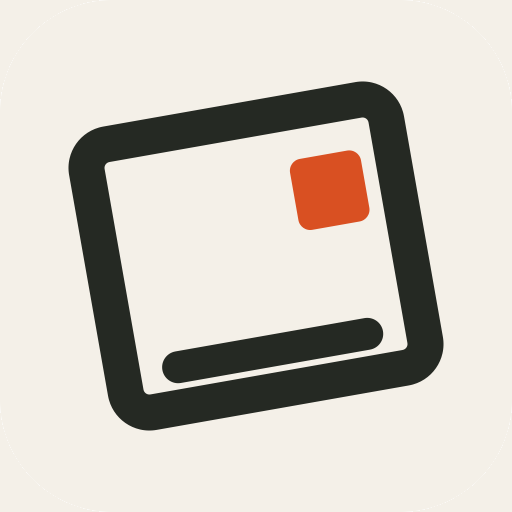
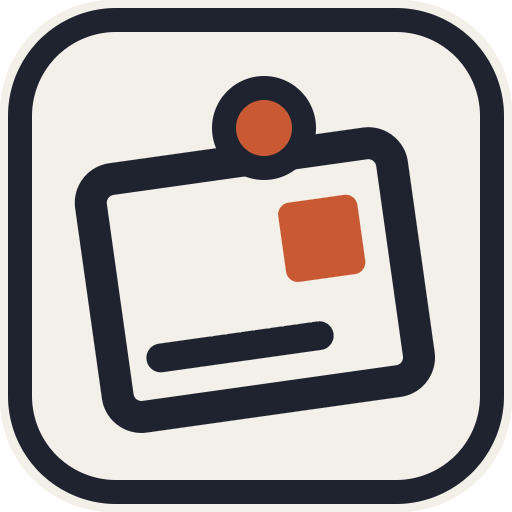
Replace the rejected cut-paper artwork with the drawn family
Original ink-line cel animation cover, share card, switcher crop and mark, with
the app's own 512px install icon. The v3 files and their provenance are removed.
A missing, private or revoked postcard now renders the app's own HTML 404 page
instead of a JSON body, and the footer names App Composer rather than a personal
workspace.

diff --git a/src/common.ts b/src/common.ts
@@ -170,6 +170,7 @@ export function html(
   pagePath = "/",
   mediaOrigin = publicOrigin,
   brandTitle = title,
+  status = 200,
 ) {
   const origin = new URL(publicOrigin).origin;
   const canonical = origin + base + (pagePath === "/" ? "/" : pagePath);
@@ -178,8 +179,9 @@ export function html(
     String.fromCharCode(...crypto.getRandomValues(new Uint8Array(16))),
   );
   return new Response(
-    `<!doctype html><html lang="en" data-app="${kind}" data-theme-key="${themeKey}" data-theme="${theme === "midnight" ? "dark" : "light"}"><head><meta charset="utf-8"><meta name="viewport" content="width=device-width,initial-scale=1"><title>${escape(title)}</title><meta name="description" content="${escape(description)}"><link rel="canonical" href="${escape(canonical)}">${pagePath === "/owner" ? '<meta name="robots" content="noindex,nofollow">' : ""}<meta name="theme-color" content="#17181b"><script nonce="${nonce}">try{const saved=localStorage.getItem(${JSON.stringify(themeKey)});if(saved==="light"||saved==="dark")document.documentElement.dataset.theme=saved;}catch{}</script><link rel="preload" href="${base}/brand/space.woff2" as="font" type="font/woff2" crossorigin><link rel="icon" href="${base}/brand/mark.svg"><link rel="apple-touch-icon" href="${base}/brand/icon.png"><meta property="og:type" content="website"><meta property="og:url" content="${escape(canonical)}"><meta name="twitter:card" content="summary_large_image"><meta name="twitter:title" content="${escape(title)}"><meta name="twitter:description" content="${escape(description)}"><meta name="twitter:image" content="${origin}${base}/brand/herethere-share-v3.jpg"><meta name="twitter:image:alt" content="A burnt-orange cut-paper postbox with one ivory postcard slipping into its slot, stamped with a permission-green square."><meta property="og:title" content="${escape(title)}"><meta property="og:description" content="${escape(description)}"><meta property="og:image" content="${origin}${base}/brand/herethere-share-v3.jpg"><meta property="og:image:alt" content="A burnt-orange cut-paper postbox with one ivory postcard slipping into its slot, stamped with a permission-green square."><meta property="og:image:width" content="1200"><meta property="og:image:height" content="630"><meta property="og:image:type" content="image/jpeg"><link rel="stylesheet" href="${base}/brand/navigation.css"><style>${style.replaceAll("url('/brand/", `url('${base}/brand/`)}</style><link rel="stylesheet" href="${base}/brand/page-share.css"><link rel="stylesheet" href="${base}/brand/theme-control.css"></head><body class="${escape(theme)}"><a class="skip" href="#main">Skip to content</a><header${pagePath === "/owner" ? "" : ' class="app-header"'}>${base ? `<a class="composer-return composition-home" href="/"><img src="${base}/brand/mark.svg" width="28" height="28" alt=""><span><span class="composer-name">App Composer</span><span class="composer-context">Here / there</span></span></a>` : `<a href="/"><strong>${escape(brandTitle)}</strong></a>`}${base || pagePath !== "/owner" ? "" : `<a class="composer-return composer-return--secondary" href="https://composer.loftwah.com/"><img src="${base}/brand/mark.svg" width="28" height="28" alt=""><span>App Composer</span></a>`}${base || pagePath === "/owner" ? `<nav aria-label="${base ? "Collection navigation" : "App navigation"}">${base ? `<a href="/guestbook/" ${kind === "guestbook" ? 'aria-current="page"' : ""}>Here / there</a><a href="/showcase/" ${kind === "showcase" ? 'aria-current="page"' : ""}>Linkarooie</a>` : '<a href="https://composer.loftwah.com/demo">Try the composition</a>'}${pagePath === "/owner" ? `<a href="${base}/owner" aria-current="page">Owner studio</a>` : ""}</nav>` : ""}<div class="app-tools"><button type="button" class="secondary" data-open-apps aria-haspopup="dialog" title="Apps and shortcuts (Ctrl/Cmd+K)"><svg xmlns="http://www.w3.org/2000/svg" width="18" height="18" viewBox="0 0 24 24" fill="none" stroke="currentColor" stroke-width="2" stroke-linecap="round" stroke-linejoin="round" aria-hidden="true"><rect width="18" height="18" x="3" y="3" rx="2"/><path d="M3 9h18M3 15h18M9 3v18M15 3v18"/></svg>Apps <kbd>⌘K / Ctrl K</kbd></button><button type="button" class="theme-control secondary" id="reader-theme" aria-label="Dark theme" aria-pressed="true" title="Switch to light theme"><svg data-theme-glyph="dark" width="20" height="20" viewBox="0 0 24 24" fill="none" stroke="currentColor" stroke-width="1.75" stroke-linecap="round" stroke-linejoin="round" aria-hidden="true"><path d="M21 12.79A9 9 0 1 1 11.21 3 7 7 0 0 0 21 12.79Z"/></svg><svg data-theme-glyph="light" width="20" height="20" viewBox="0 0 24 24" fill="none" stroke="currentColor" stroke-width="1.75" stroke-linecap="round" stroke-linejoin="round" aria-hidden="true"><circle cx="12" cy="12" r="4"/><path d="M12 2v2m0 16v2M2 12h2m16 0h2M4.93 4.93l1.42 1.42m11.3 11.3 1.42 1.42M4.93 19.07l1.42-1.42m11.3-11.3 1.42-1.42"/></svg></button></div></header><dialog id="app-navigation" aria-labelledby="app-navigation-title"><div class="dialog-heading"><h2 id="app-navigation-title">Apps and shortcuts</h2><button type="button" data-close-apps>Close</button></div><label>Find an app or task<input type="search" placeholder="App name, Get Ready, Init…" autocomplete="off"></label><p role="status" aria-live="polite"></p><ul><li data-destination><a href="${base ? "/guestbook/" : "https://guestbook.loftwah.com"}"><img src="${base}/brand/apps/herethere-small-v3.webp" width="40" height="40" alt=""><span>Here / there<small>Photo guestbook</small></span></a></li><li data-destination><a href="${base ? "/showcase/" : "https://showcase.loftwah.com"}"><img src="${base}/brand/apps/linkarooie-small-v3.webp" width="40" height="40" alt=""><span>Linkarooie<small>Curated collection</small></span></a></li><li data-destination><a href="https://share.loftwah.com"><img src="${base}/brand/apps/linkcheck-small-v3.webp" width="40" height="40" alt=""><span>Link Check<small>SEO and sharing</small></span></a></li><li data-destination><a href="https://ready.loftwah.com"><img src="${base}/brand/apps/hello-small-v3.webp" width="40" height="40" alt=""><span>Hello World<small>Deployment reference</small></span></a></li><li data-destination><a href="https://ai.loftwah.com"><img src="${base}/brand/apps/carryforward-small-v3.webp" width="40" height="40" alt=""><span>Carry / forward<small>Portable assistant memory</small></span></a></li><li data-destination><a href="https://composer.loftwah.com/ready">Get Ready<small>Composer task</small></a></li><li data-destination><a href="https://composer.loftwah.com/init">Init<small>Composer task</small></a></li></ul></dialog><main id="main">${body.replaceAll("<script>", '<script nonce="' + nonce + '">')}${pagePath === "/" ? '<details class="about-app"><summary>About Here / there</summary><p>A photo guestbook for a community, event or personal collection. Browse approved moments, search captions and open an original contribution.</p><p>An invited owner uses the studio to upload, review, publish or hide photos and change the title, introduction, theme and layout. Photos stay private until approved. Linkarooie can feature approved contributions; hiding the source revokes both public views on the next request.</p><a href="https://composer.loftwah.com/init">Prepare your own configuration in Init</a></details>' : ""}</main><footer><a href="https://composer.loftwah.com/">Loftwah’s workspace</a> · <a href="${base}/owner">Manage this guestbook</a> · ${pagePath === "/owner" ? "" : "<div class=\"public-page-share\" data-page-share hidden><button type=\"button\" class=\"secondary\" data-page-native hidden>Share page</button><button type=\"button\" class=\"secondary\" data-page-copy hidden>Copy page link</button><p role=\"status\" aria-live=\"polite\" data-share-status></p><label data-share-fallback hidden>Published page URL<input readonly aria-label=\"Published page URL\"></label></div>"}Here / there by Loftwah · <a href="https://github.com/loftwah/app-composer-${kind}">Own the source</a></footer><script nonce="${nonce}" src="${base}/brand/navigation.js"></script><script type="module" src="${base}/brand/page-performance.mjs"></script><script type="module" src="${base}/brand/page-share.mjs"></script></body></html>`,
+    `<!doctype html><html lang="en" data-app="${kind}" data-theme-key="${themeKey}" data-theme="${theme === "midnight" ? "dark" : "light"}"><head><meta charset="utf-8"><meta name="viewport" content="width=device-width,initial-scale=1"><title>${escape(title)}</title><meta name="description" content="${escape(description)}"><link rel="canonical" href="${escape(canonical)}">${pagePath === "/owner" ? '<meta name="robots" content="noindex,nofollow">' : ""}<meta name="theme-color" content="#17181b"><script nonce="${nonce}">try{const saved=localStorage.getItem(${JSON.stringify(themeKey)});if(saved==="light"||saved==="dark")document.documentElement.dataset.theme=saved;}catch{}</script><link rel="preload" href="${base}/brand/space.woff2" as="font" type="font/woff2" crossorigin><link rel="icon" href="${base}/brand/mark.svg"><link rel="apple-touch-icon" href="${base}/brand/icon.png"><meta property="og:type" content="website"><meta property="og:url" content="${escape(canonical)}"><meta name="twitter:card" content="summary_large_image"><meta name="twitter:title" content="${escape(title)}"><meta name="twitter:description" content="${escape(description)}"><meta name="twitter:image" content="${origin}${base}/brand/herethere-share-v4.jpg"><meta name="twitter:image:alt" content="Here / there: an alien visitor pins a postcard onto a station wall of contributions, on the App Composer share card."><meta property="og:title" content="${escape(title)}"><meta property="og:description" content="${escape(description)}"><meta property="og:image" content="${origin}${base}/brand/herethere-share-v4.jpg"><meta property="og:image:alt" content="Here / there: an alien visitor pins a postcard onto a station wall of contributions, on the App Composer share card."><meta property="og:image:width" content="1200"><meta property="og:image:height" content="630"><meta property="og:image:type" content="image/jpeg"><link rel="stylesheet" href="${base}/brand/navigation.css"><style>${style.replaceAll("url('/brand/", `url('${base}/brand/`)}</style><link rel="stylesheet" href="${base}/brand/page-share.css"><link rel="stylesheet" href="${base}/brand/theme-control.css"></head><body class="${escape(theme)}"><a class="skip" href="#main">Skip to content</a><header${pagePath === "/owner" ? "" : ' class="app-header"'}>${base ? `<a class="composer-return composition-home" href="/"><img src="${base}/brand/mark.svg" width="28" height="28" alt=""><span><span class="composer-name">App Composer</span><span class="composer-context">Here / there</span></span></a>` : `<a href="/"><strong>${escape(brandTitle)}</strong></a>`}${base || pagePath !== "/owner" ? "" : `<a class="composer-return composer-return--secondary" href="https://composer.loftwah.com/"><img src="${base}/brand/mark.svg" width="28" height="28" alt=""><span>App Composer</span></a>`}${base || pagePath === "/owner" ? `<nav aria-label="${base ? "Collection navigation" : "App navigation"}">${base ? `<a href="/guestbook/" ${kind === "guestbook" ? 'aria-current="page"' : ""}>Here / there</a><a href="/showcase/" ${kind === "showcase" ? 'aria-current="page"' : ""}>Linkarooie</a>` : '<a href="https://composer.loftwah.com/demo">Try the composition</a>'}${pagePath === "/owner" ? `<a href="${base}/owner" aria-current="page">Owner studio</a>` : ""}</nav>` : ""}<div class="app-tools"><button type="button" class="secondary" data-open-apps aria-haspopup="dialog" title="Apps and shortcuts (Ctrl/Cmd+K)"><svg xmlns="http://www.w3.org/2000/svg" width="18" height="18" viewBox="0 0 24 24" fill="none" stroke="currentColor" stroke-width="2" stroke-linecap="round" stroke-linejoin="round" aria-hidden="true"><rect width="18" height="18" x="3" y="3" rx="2"/><path d="M3 9h18M3 15h18M9 3v18M15 3v18"/></svg>Apps <kbd>⌘K / Ctrl K</kbd></button><button type="button" class="theme-control secondary" id="reader-theme" aria-label="Dark theme" aria-pressed="true" title="Switch to light theme"><svg data-theme-glyph="dark" width="20" height="20" viewBox="0 0 24 24" fill="none" stroke="currentColor" stroke-width="1.75" stroke-linecap="round" stroke-linejoin="round" aria-hidden="true"><path d="M21 12.79A9 9 0 1 1 11.21 3 7 7 0 0 0 21 12.79Z"/></svg><svg data-theme-glyph="light" width="20" height="20" viewBox="0 0 24 24" fill="none" stroke="currentColor" stroke-width="1.75" stroke-linecap="round" stroke-linejoin="round" aria-hidden="true"><circle cx="12" cy="12" r="4"/><path d="M12 2v2m0 16v2M2 12h2m16 0h2M4.93 4.93l1.42 1.42m11.3 11.3 1.42 1.42M4.93 19.07l1.42-1.42m11.3-11.3 1.42-1.42"/></svg></button></div></header><dialog id="app-navigation" aria-labelledby="app-navigation-title"><div class="dialog-heading"><h2 id="app-navigation-title">Apps and shortcuts</h2><button type="button" data-close-apps>Close</button></div><label>Find an app or task<input type="search" placeholder="App name, Get Ready, Init…" autocomplete="off"></label><p role="status" aria-live="polite"></p><ul><li data-destination><a href="${base ? "/guestbook/" : "https://guestbook.loftwah.com"}"><img src="${base}/brand/apps/herethere-small-v4.webp" width="40" height="40" alt=""><span>Here / there<small>Photo guestbook</small></span></a></li><li data-destination><a href="${base ? "/showcase/" : "https://showcase.loftwah.com"}"><img src="${base}/brand/apps/linkarooie-small-v4.webp" width="40" height="40" alt=""><span>Linkarooie<small>Curated collection</small></span></a></li><li data-destination><a href="https://share.loftwah.com"><img src="${base}/brand/apps/linkcheck-small-v4.webp" width="40" height="40" alt=""><span>Link Check<small>SEO and sharing</small></span></a></li><li data-destination><a href="https://ready.loftwah.com"><img src="${base}/brand/apps/hello-small-v4.webp" width="40" height="40" alt=""><span>Hello World<small>Deployment reference</small></span></a></li><li data-destination><a href="https://ai.loftwah.com"><img src="${base}/brand/apps/carryforward-small-v4.webp" width="40" height="40" alt=""><span>Carry / forward<small>Portable assistant memory</small></span></a></li><li data-destination><a href="https://composer.loftwah.com/ready">Get Ready<small>Composer task</small></a></li><li data-destination><a href="https://composer.loftwah.com/init">Init<small>Composer task</small></a></li></ul></dialog><main id="main">${body.replaceAll("<script>", '<script nonce="' + nonce + '">')}${pagePath === "/" ? '<details class="about-app"><summary>About Here / there</summary><p>A photo guestbook for a community, event or personal collection. Browse approved moments, search captions and open an original contribution.</p><p>An invited owner uses the studio to upload, review, publish or hide photos and change the title, introduction, theme and layout. Photos stay private until approved. Linkarooie can feature approved contributions; hiding the source revokes both public views on the next request.</p><a href="https://composer.loftwah.com/init">Prepare your own configuration in Init</a></details>' : ""}</main><footer><a href="https://composer.loftwah.com/">App Composer</a> · <a href="${base}/owner">Manage this guestbook</a> · ${pagePath === "/owner" ? "" : "<div class=\"public-page-share\" data-page-share hidden><button type=\"button\" class=\"secondary\" data-page-native hidden>Share page</button><button type=\"button\" class=\"secondary\" data-page-copy hidden>Copy page link</button><p role=\"status\" aria-live=\"polite\" data-share-status></p><label data-share-fallback hidden>Published page URL<input readonly aria-label=\"Published page URL\"></label></div>"}Here / there by Loftwah · <a href="https://github.com/loftwah/app-composer-${kind}">Own the source</a></footer><script nonce="${nonce}" src="${base}/brand/navigation.js"></script><script type="module" src="${base}/brand/page-performance.mjs"></script><script type="module" src="${base}/brand/page-share.mjs"></script></body></html>`,
     {
+      status,
       headers: {
         "Content-Type": "text/html; charset=utf-8",
         "Cache-Control": "no-store",

diff --git a/src/worker.ts b/src/worker.ts
@@ -256,7 +256,20 @@ const app = {
         )
           .bind(detail[1])
           .first<any>();
-        if (!p) return error("This contribution is not public", 404);
+        if (!p)
+          return html(
+            "This postcard is not available",
+            `<h1>This postcard is not available</h1><p>It is unpublished, private or has been removed.</p><p><a href="${base || "/"}">Back to the collection</a></p>`,
+            base,
+            "guestbook",
+            String(config.theme),
+            "This contribution is unpublished, private or has been removed.",
+            env.PUBLIC_ORIGIN,
+            path,
+            env.PUBLIC_ORIGIN,
+            String(config.title),
+            404,
+          );
         return html(
           p.caption,
           `<a href="${base || "/"}">Back to the guestbook</a><h1>${escape(p.caption)}</h1><img class="detail-media" src="${base}/media/${escape(p.id)}" alt="${escape(p.caption)}" width="1200" height="900"><p>${escape(p.author)}${p.synthetic ? " · Original illustrative demo artwork" : ""}</p>`,
@@ -286,7 +299,7 @@ const app = {
             : "Nothing is published yet. Postcards are closed, so no new contributions can be sent for now.";
         return html(
           String(config.title),
-          `<section class="collection-hero" aria-labelledby="collection-title"><div class="collection-copy"><p class="collection-kicker">Here / there · Photo guestbook</p><h1 id="collection-title">${escape(config.title)}</h1><p class="lede">${escape(config.intro)}</p><div class="collection-actions">${heroActions}</div><p class="collection-note">${collectionNote}</p></div><figure><img class="collection-art" src="${base}/brand/herethere-art-v3-960.webp" srcset="${base}/brand/herethere-art-v3-480.webp 480w, ${base}/brand/herethere-art-v3-960.webp 960w" sizes="(max-width: 820px) calc(100vw - 40px), (max-width: 1248px) 50vw, 584px" width="960" height="960" fetchpriority="high" alt="A burnt-orange cut-paper postbox with one ivory postcard slipping into its slot, carrying a permission-green stamp."><figcaption>Original cut-paper artwork for Here / there. The collection below holds the published items.</figcaption></figure></section><section class="collection-section" id="collection" aria-labelledby="moments-title"><div class="collection-heading"><h2 id="moments-title">From the guestbook</h2>${published ? "<p>A place, a face, a little piece of the day.</p>" : ""}</div>${results.length > 1 ? `<div class="gallery-controls"><label>Find in this collection<input id="gallery-search" type="search" placeholder="Caption, title or alias" autocomplete="off"></label></div><p id="gallery-count" class="small" role="status" aria-live="polite"></p><p id="gallery-empty" class="gallery-empty" hidden>No items match. Try another search.</p>` : ""}<div class="gallery ${escape(config.layout)}">${results.map((p: any) => `<article data-gallery-item><a href="${base}/item/${escape(p.id)}"><img src="${base}/media/${escape(p.id)}" alt="${escape(p.caption)}" width="1200" height="900" loading="lazy"><h3>${escape(p.caption)}</h3></a><p>${escape(p.author)} ${p.synthetic ? '<span class="badge">Demo artwork</span>' : ""}</p></article>`).join("") || `<div class="collection-empty"><h3>No published moments yet</h3><p>The owner reviews each contribution before it appears here.${postcardsOpen ? " Anyone with the guest code can send a postcard now." : " Postcards are closed for now."}</p>${postcardsOpen ? `<p><a class="button" href="${base}/contribute">Leave a postcard</a></p>` : ""}</div>`}</div></section><aside class="collection-context"><p>For a birthday, a neighbourhood or the places you want to remember. The owner chooses what is shared. An approved moment can also appear in <a href="${base ? "/showcase/" : "https://showcase.loftwah.com/"}">Linkarooie</a>; hiding it here removes it from both public views.</p></aside>${config.guestAccess === 'postcards' && !config.submissionsPaused ? `<script>console.info('  [ postcard ]\\nGuestbook discovery: hunter2 → ${base}/contribute\\nA guest code sends a pending postcard. Your owner credential stays private.');</script>` : ''}`,
+          `<section class="collection-hero" aria-labelledby="collection-title"><div class="collection-copy"><p class="collection-kicker">Here / there · Photo guestbook</p><h1 id="collection-title">${escape(config.title)}</h1><p class="lede">${escape(config.intro)}</p><div class="collection-actions">${heroActions}</div><p class="collection-note">${collectionNote}</p></div><figure><img class="collection-art" src="${base}/brand/herethere-art-v4-960.webp" srcset="${base}/brand/herethere-art-v4-480.webp 480w, ${base}/brand/herethere-art-v4-960.webp 960w" sizes="(max-width: 820px) calc(100vw - 40px), (max-width: 1248px) 50vw, 584px" width="960" height="960" fetchpriority="high" alt="An original animated-style illustration of a visitor station: a tall alien pins a postcard onto a wall of contributions while a small robot carries a tall stack of cards."><figcaption>Original illustration for Here / there. The collection below holds the published items.</figcaption></figure></section><section class="collection-section" id="collection" aria-labelledby="moments-title"><div class="collection-heading"><h2 id="moments-title">From the guestbook</h2>${published ? "<p>A place, a face, a little piece of the day.</p>" : ""}</div>${results.length > 1 ? `<div class="gallery-controls"><label>Find in this collection<input id="gallery-search" type="search" placeholder="Caption, title or alias" autocomplete="off"></label></div><p id="gallery-count" class="small" role="status" aria-live="polite"></p><p id="gallery-empty" class="gallery-empty" hidden>No items match. Try another search.</p>` : ""}<div class="gallery ${escape(config.layout)}">${results.map((p: any) => `<article data-gallery-item><a href="${base}/item/${escape(p.id)}"><img src="${base}/media/${escape(p.id)}" alt="${escape(p.caption)}" width="1200" height="900" loading="lazy"><h3>${escape(p.caption)}</h3></a><p>${escape(p.author)} ${p.synthetic ? '<span class="badge">Demo artwork</span>' : ""}</p></article>`).join("") || `<div class="collection-empty"><h3>No published moments yet</h3><p>The owner reviews each contribution before it appears here.${postcardsOpen ? " Anyone with the guest code can send a postcard now." : " Postcards are closed for now."}</p>${postcardsOpen ? `<p><a class="button" href="${base}/contribute">Leave a postcard</a></p>` : ""}</div>`}</div></section><aside class="collection-context"><p>For a birthday, a neighbourhood or the places you want to remember. The owner chooses what is shared. An approved moment can also appear in <a href="${base ? "/showcase/" : "https://showcase.loftwah.com/"}">Linkarooie</a>; hiding it here removes it from both public views.</p></aside>${config.guestAccess === 'postcards' && !config.submissionsPaused ? `<script>console.info('  [ postcard ]\\nGuestbook discovery: hunter2 → ${base}/contribute\\nA guest code sends a pending postcard. Your owner credential stays private.');</script>` : ''}`,
           base,
           "guestbook",
           String(config.theme),

diff --git a/DESIGN.md b/DESIGN.md
@@ -42,15 +42,15 @@ components:
 
 **Creative North Star: "The guestbook letterbox"**
 
-Keep the built editorial collection: Space headings, charcoal or warm-light surfaces, orange actions and one cut-paper screenprint hero. Guest postcards extend that world with paper, ink and a visible preview. Here / there remains the guestbook identity; Linkarooie names the related collection destination. Owner titles, introductions, layouts and theme settings remain authoritative.
+Keep the built editorial collection: Space headings, charcoal or warm-light surfaces, orange actions and one ink-line cel animation hero. Guest postcards extend that world with paper, ink and a visible preview. Here / there remains the guestbook identity; Linkarooie names the related collection destination. Owner titles, introductions, layouts and theme settings remain authoritative.
 
 **Key Characteristics:**
-- Original self-hosted cut-paper illustration, explicitly separate from submitted contributions.
+- Original self-hosted ink-line cel animation illustration, explicitly separate from submitted contributions.
 - Flat collection sections, native controls and readable contribution text.
 - A paper postcard preview within the existing interface, in either theme.
 - Honest states: an empty collection says so plainly, hides search, and offers the action that actually exists.
 
-Source truth is `src/common.ts`, `src/worker.ts`, `public/brand/navigation.css` and `public/brand/guest-postcard.js`. Artwork provenance is `public/brand/herethere-art-v3.PROVENANCE.txt`; keep its master, 480/960px WebP sources, reserved dimensions, social derivatives, the 96px navigation crop and the adjacent licence/font notices. It also records the assets this release removed. No new artwork or visual identity is introduced here.
+Source truth is `src/common.ts`, `src/worker.ts`, `public/brand/navigation.css` and `public/brand/guest-postcard.js`. Artwork provenance is `public/brand/herethere-art-v4.PROVENANCE.txt`; keep its master, 480/960px WebP sources, reserved dimensions, social derivatives, the 96px navigation crop and the adjacent licence/font notices. It also records the assets this release removed. No new artwork or visual identity is introduced here.
 
 Retained local fictional browser captures in `.private/postcard-captures/` cover `final-form-{390,1728}-{dark,light}.png` and `detail-{390,1728}-{dark,light}.png`. They document form/preview layout, focus appearance and long-caption wrapping; screenshots alone do not prove submission, approval or revocation interactions. Production release/pin promotion, physical-device and screen-reader acceptance remain separate gates.
 

diff --git a/public/brand/apps/README.md b/public/brand/apps/README.md
@@ -1,5 +1,5 @@
-Navigation crops for the app switcher, reviewed 17 October 2026. These 96x96 WebP derivatives come from the reviewed cut-paper tiles in https://github.com/loftwah/app-composer/tree/main/public/brand/apps, exported at the same time as each app's own hero art. Copyright and usage follow the parent MIT repository. No vendor UI and no personal images.
+Navigation crops for the app switcher, reviewed 17 October 2026. These 96x96 WebP derivatives come from the reviewed ink-line cel animation tiles in https://github.com/loftwah/app-composer/tree/main/public/brand/apps, exported at the same time as each app's own hero art. Copyright and usage follow the parent MIT repository. No vendor UI and no personal images.
 
-Current set: `herethere-small-v3`, `linkarooie-small-v3`, `linkcheck-small-v3`, `hello-small-v3` and `carryforward-small-v3`. Each file is cropped from its own app's cut-paper tile so the switcher matches the tile a visitor clicked; none is a generic icon and none is another app's character art.
+Current set: `herethere-small-v4`, `linkarooie-small-v4`, `linkcheck-small-v4`, `hello-small-v4` and `carryforward-small-v4`. Each file is cropped from its own app's illustration so the switcher matches the tile a visitor clicked; none is a generic icon and none is another app's character art.
 
-Removed in this release: the 14 October 2026 `guestbook-small-v1/v2`, `showcase-small-v1/v2`, `linkcheck-small-v1`, `hello-small-v1` and `state-small-v1` crops, and `creators/linkarooie-kangaroo-v1.png`. They came from the earlier mixed set and stayed only while the apps still referenced them. The bytes remain in this repository's git history.
+Removed in earlier artwork releases: the 14 October 2026 `guestbook-small-v1/v2`, `showcase-small-v1/v2`, `linkcheck-small-v1`, `hello-small-v1` and `state-small-v1` crops, and `creators/linkarooie-kangaroo-v1.png`. They came from the earlier mixed set and stayed only while the apps still referenced them. The superseded 17 October 2026 cut-paper crops were removed with the ink-line cel animation release. The bytes remain in this repository's git history.
